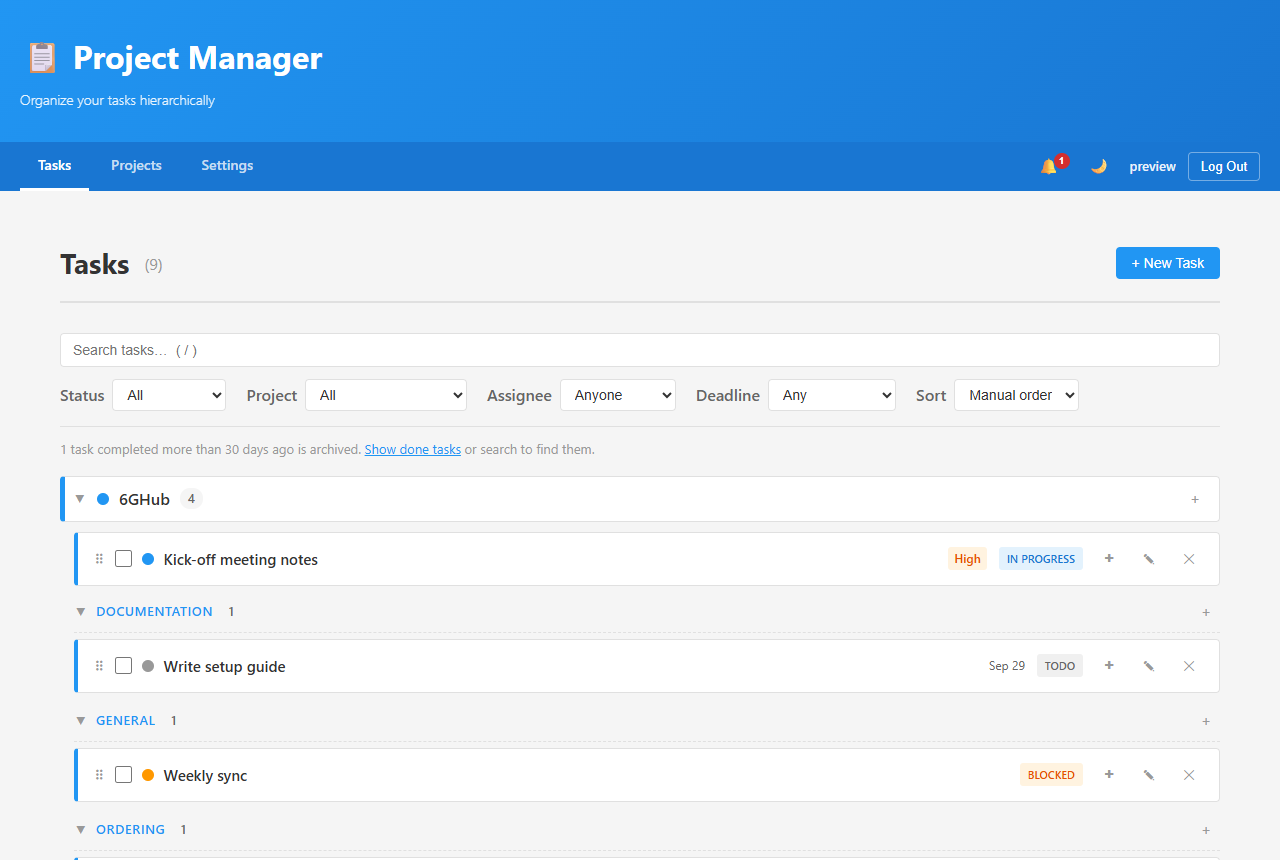
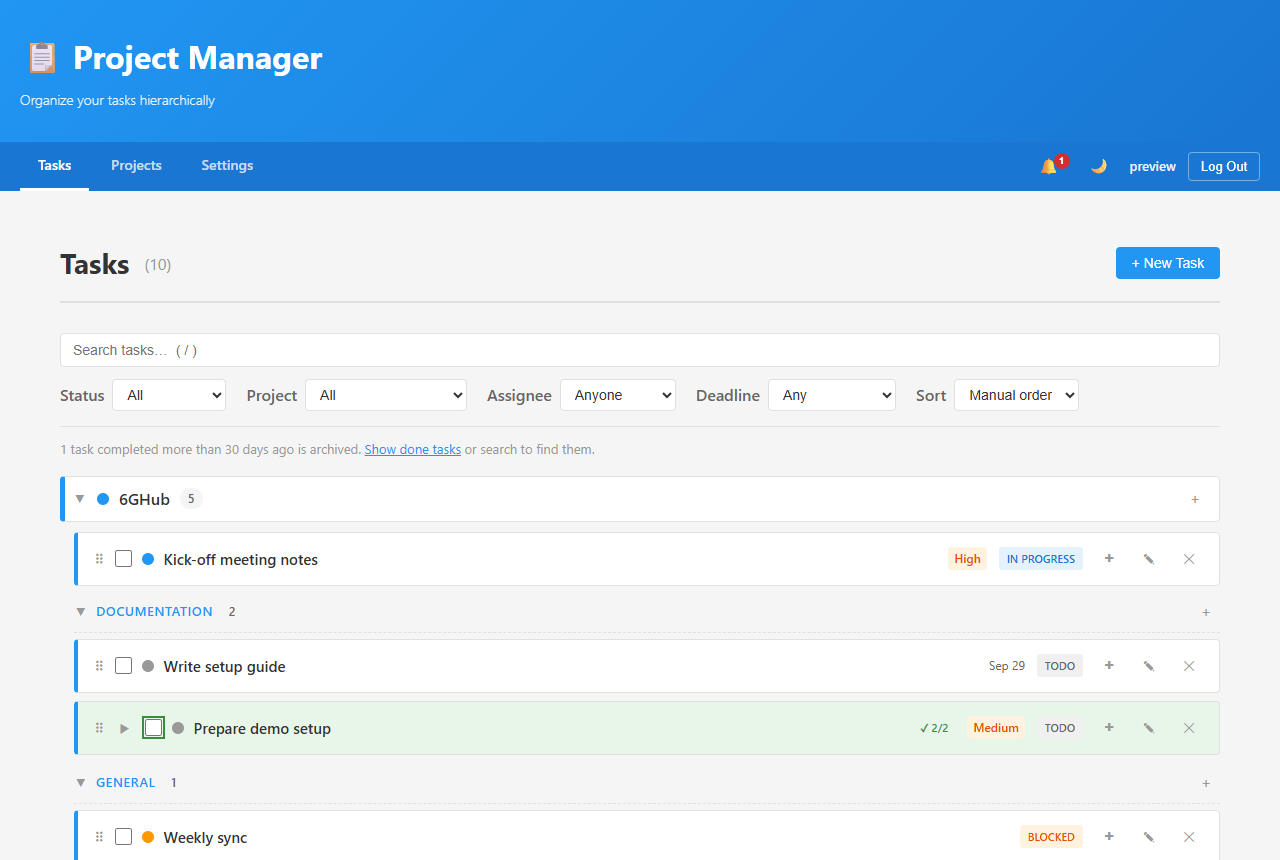
Highlight tasks whose subtasks are all done (v1.11.0)
When every subtask is ticked, the parent row turns green, its progress
badge shows "✓ n/n" and the checkbox is outlined, with a hint to tick it.
The parent stays open (new subtasks may follow) and only moves to
Completed when it is ticked itself.

Changed region(s): [[0.0312, 0.8163, 0.25, 0.9977], [0.7812, 0.9674, 0.9375, 0.9977], [0.8125, 0.8767, 0.8438, 0.907]]

diff --git a/frontend/src/components/TaskItem.js b/frontend/src/components/TaskItem.js
@@ -28,6 +28,10 @@ function TaskItem({
   const showSubtasks = isExpanded(task.id);
   // While filtering, ancestors shown only for context are dimmed.
   const isContext = matchedIds !== null && !matchedIds.has(task.id);
+  const progress = progressOf ? progressOf(task) : { done: 0, total: 0 };
+  // All subtasks ticked but the task itself isn't: highlight it, but leave it
+  // open -- new subtasks may still be added. Ticking it is a deliberate step.
+  const isReady = progress.total > 0 && progress.done === progress.total && task.status !== 'done';
   const [dragOver, setDragOver] = useState(false);
   const [dragging, setDragging] = useState(false);
 
@@ -92,7 +96,7 @@ function TaskItem({
 
   return (
     <div
-      className={`task-item ${dragOver ? 'drag-over' : ''} ${dragging ? 'dragging' : ''} ${isContext ? 'task-context' : ''}`}
+      className={`task-item ${dragOver ? 'drag-over' : ''} ${dragging ? 'dragging' : ''} ${isContext ? 'task-context' : ''} ${isReady ? 'task-ready' : ''}`}
       style={{ marginLeft: `${indent * 20}px` }}
       draggable={canDrag}
       {...(canDrag && {
@@ -134,12 +138,17 @@ function TaskItem({
         </div>
 
         <div className="task-right">
-          {progressOf && progressOf(task).total > 0 && (
+          {progress.total > 0 && (
             <span
-              className={`task-progress ${progressOf(task).done === progressOf(task).total ? 'complete' : ''}`}
-              title="Subtasks done"
+              className={`task-progress ${progress.done === progress.total ? 'complete' : ''}`}
+              title={
+                isReady
+                  ? "All subtasks done — tick the task when it's finished"
+                  : `${progress.done} of ${progress.total} subtasks done`
+              }
             >
-              {progressOf(task).done}/{progressOf(task).total}
+              {isReady && '✓ '}
+              {progress.done}/{progress.total}
             </span>
           )}
           {task.priority > 0 && (

diff --git a/frontend/src/projects.test.js b/frontend/src/projects.test.js
@@ -120,3 +120,28 @@ test('server dates are parsed as UTC', () => {
   assert.strictEqual(parseServerDate('2026-09-25T10:00:00+02:00').toISOString(), '2026-09-25T08:00:00.000Z');
   assert.strictEqual(parseServerDate(null), null);
 });
+
+test('a task whose subtasks are all done stays open until it is ticked itself', () => {
+  const idx = buildProjectIndex(projects);
+  const tasks = [
+    t(1, 2, { title: 'parent' }),
+    t(2, null, { status: 'done', parent_task_id: 1 }),
+    t(3, null, { status: 'done', parent_task_id: 1 }),
+  ];
+  let tree = buildTaskTree(tasks, DEFAULT_FILTERS, { projectParentOf: idx.parentIdOf });
+  assert.deepStrictEqual(tree.progressOf(tasks[0]), { done: 2, total: 2 });
+  let ordering = groupTasksByProject(tree.roots, idx)[0].categories[0];
+  assert.deepStrictEqual(ordering.tasks.map((x) => x.id), [1]); // open, not completed
+  assert.deepStrictEqual(ordering.completed, []);
+
+  // Ticking the parent is what moves it.
+  tasks[0] = { ...tasks[0], status: 'done', completed_at: '2026-09-25T10:00:00' };
+  tree = buildTaskTree(tasks, DEFAULT_FILTERS, { projectParentOf: idx.parentIdOf });
+  ordering = groupTasksByProject(tree.roots, idx)[0].categories[0];
+  assert.deepStrictEqual(ordering.completed.map((x) => x.id), [1]);
+
+  // A new open subtask on a ready task: progress drops again.
+  const more = [...tasks.slice(1), t(1, 2, { title: 'parent' }), t(4, null, { parent_task_id: 1 })];
+  tree = buildTaskTree(more, DEFAULT_FILTERS, { projectParentOf: idx.parentIdOf });
+  assert.deepStrictEqual(tree.progressOf(more.find((x) => x.id === 1)), { done: 2, total: 3 });
+});

diff --git a/frontend/src/styles/TaskItem.css b/frontend/src/styles/TaskItem.css
@@ -297,3 +297,14 @@
     height: 30px;
   }
 }
+
+/* All subtasks done, task itself still open. */
+.task-item.task-ready {
+  background-color: var(--color-success-bg);
+}
+
+.task-item.task-ready > .task-header .task-done-checkbox {
+  outline: 2px solid var(--color-success-text);
+  outline-offset: 1px;
+  border-radius: 2px;
+}

diff --git a/README.md b/README.md
@@ -8,7 +8,7 @@ A self-hosted task management application with hierarchical tasks (main tasks + 
 
 - **Authentication**: JWT-based login/registration; first registered user becomes admin
 - **User Management**: Admins can promote/demote and activate/deactivate users
-- **Hierarchical Tasks**: Main tasks with subtasks in a tree structure, drag-to-reorder at any level (in manual sort order), subtask progress (e.g. *1/2*) on the parent
+- **Hierarchical Tasks**: Main tasks with subtasks in a tree structure, drag-to-reorder at any level (in manual sort order), subtask progress (e.g. *1/2*) on the parent; when all subtasks are ticked the parent is highlighted as ready (*✓ 2/2*) but stays open — it only moves to *Completed* when you tick it yourself, so more subtasks can still be added
 - **Done Checkbox & Archive**: Tick tasks off with a checkbox; they move into a collapsed *✓ Completed* row at the end of their project/category (most recent first). After a configurable number of days (Settings → *Completed tasks*, default 30) they're archived — hidden from the list but still found by search or the *Done* filter. Nothing is deleted
 - **Multi-User**: Task assignment
 - **Search & Filters**: Full-text search over titles and descriptions (subtasks included), filters for status, project, assignee and deadline, sorting by deadline/priority/date/title; filters are kept in the URL
